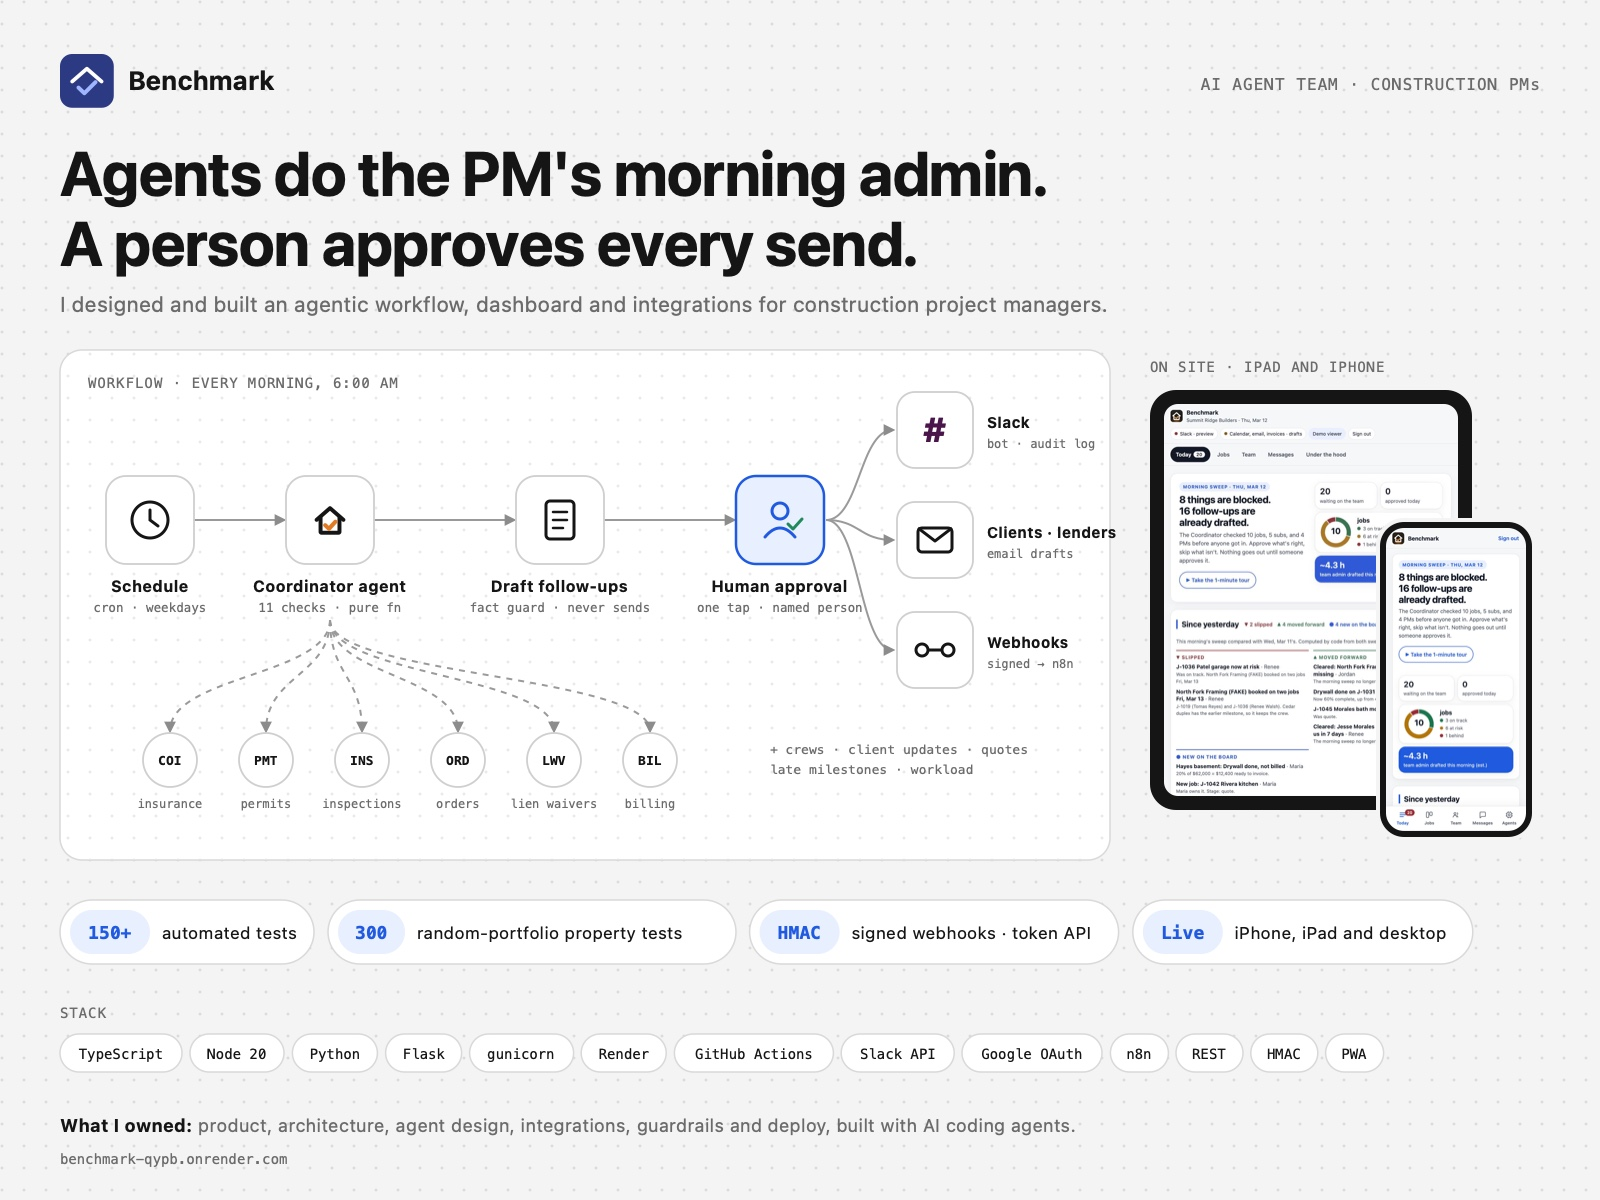
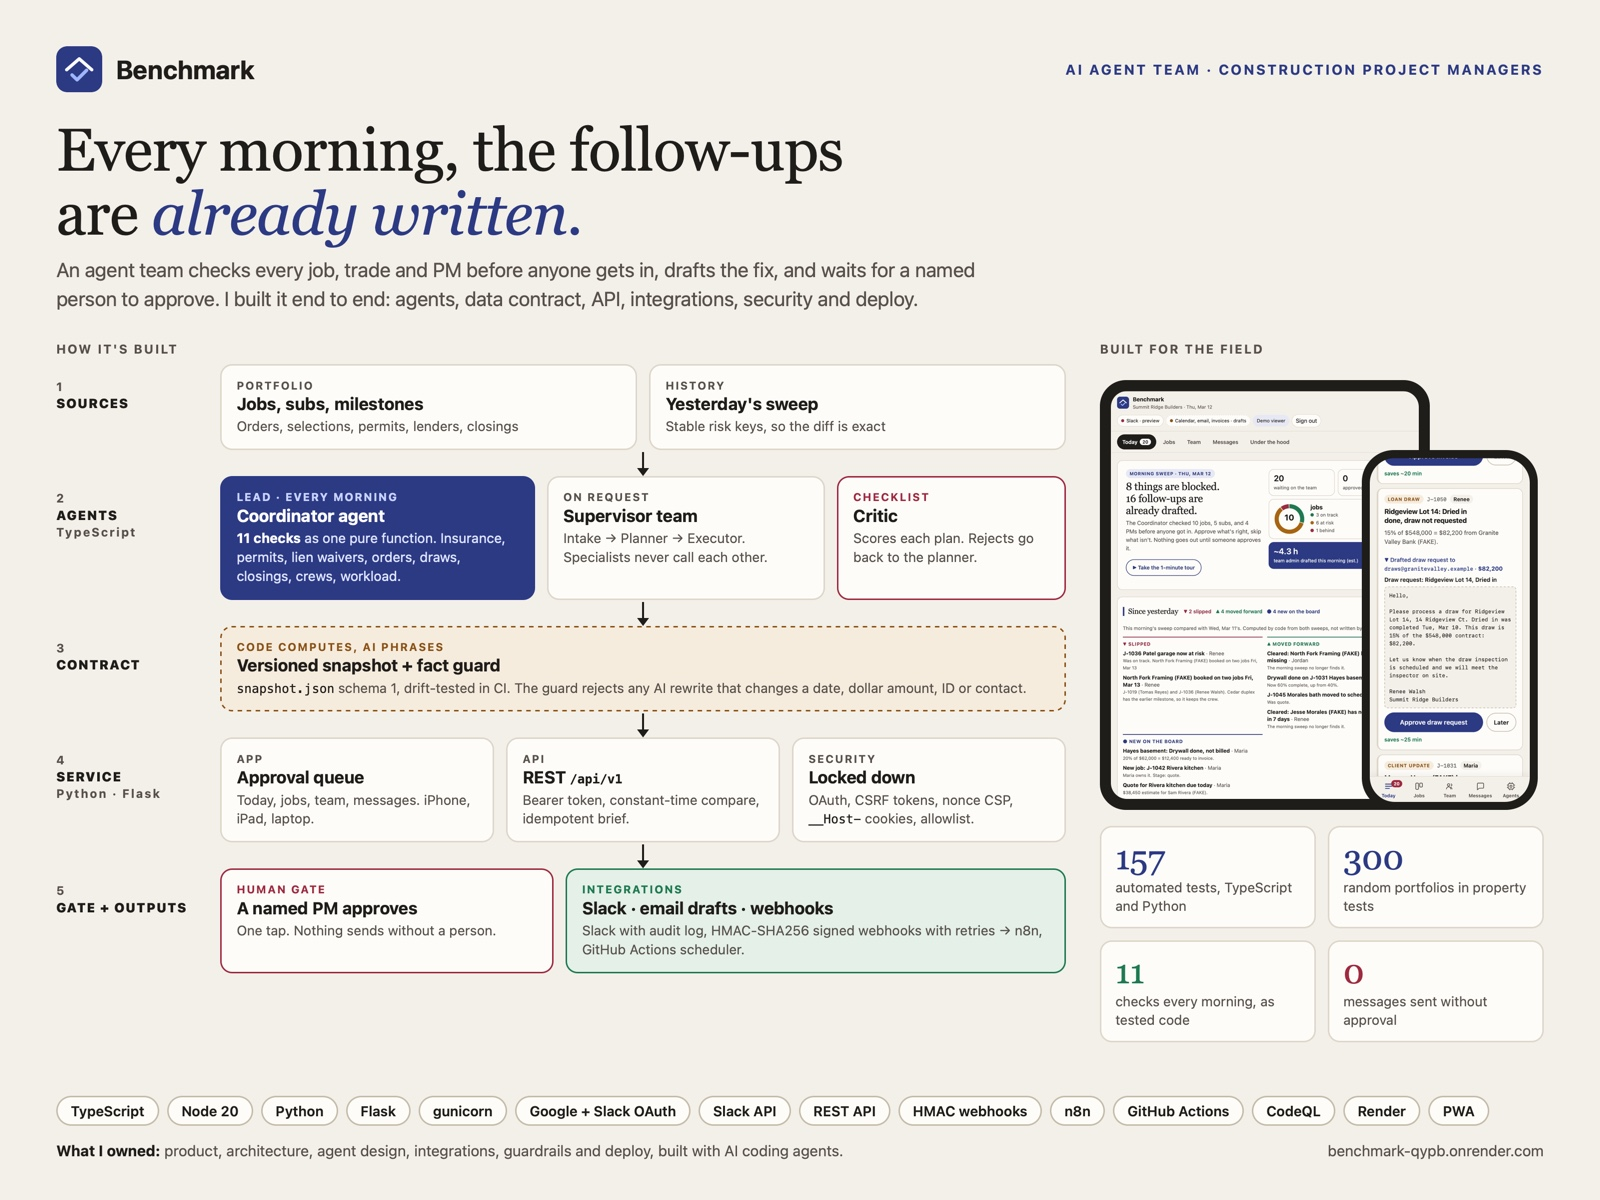
New overview image, and lead the README with it (#45)

diff --git a/README.md b/README.md
@@ -5,6 +5,8 @@
 [![CI](https://github.com/saltylvn/benchmark-ai/actions/workflows/ci.yml/badge.svg)](https://github.com/saltylvn/benchmark-ai/actions/workflows/ci.yml)
 &nbsp;**Live demo:** [benchmark-qypb.onrender.com](https://benchmark-qypb.onrender.com) (tap **View the demo**; the free host may take ~1 minute to wake)
 
+[![Benchmark overview: sources, TypeScript agents (Coordinator with 11 checks, supervisor team, critic), a versioned snapshot and fact guard, the Flask service with its approval queue, REST API and security, then a named PM approves before Slack, email drafts and signed webhooks; the app on iPad and iPhone; 157 tests and 300 property-test portfolios](docs/images/benchmark-linkedin.jpg)](https://benchmark-qypb.onrender.com)
+
 <p>
   <img src="docs/images/screens/landing-phone.jpg" width="24%" alt="Landing page on a phone">
   <img src="docs/images/screens/today-phone.jpg" width="24%" alt="Today: what is blocked and what is already drafted">
@@ -123,7 +125,7 @@ flowchart LR
 | --- | --- |
 | **Agents** | TypeScript, Node 20, `node:test` via `tsx`, esbuild |
 | **Service** | Python 3.10+, Flask 3, Jinja, gunicorn, ruff |
-| **Front end** | Server-rendered HTML, plain JavaScript, CSS tokens for light and dark, installable PWA |
+| **Front end** | Server-rendered HTML, plain JavaScript, design tokens for a paper-and-ink light mode and a navy dark mode, installable PWA |
 | **Infra** | Render (Blueprint), GitHub Actions (CI and a scheduled brief), n8n |
 | **Tests** | 150+: 70 TypeScript (fixtures, property tests, cross-language webhook signatures) and 87 Python (routes, OAuth, Slack, automation API, webhooks, scheduler, security headers, deploy) |
 
